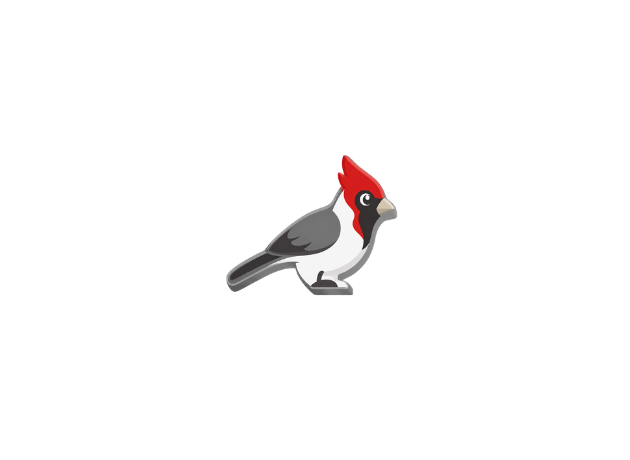
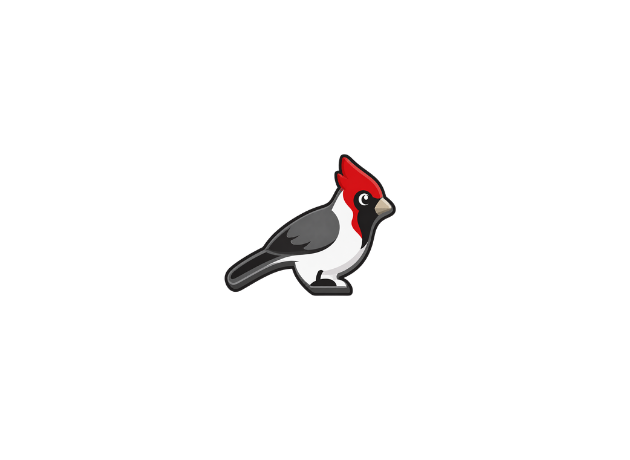
fix(galo): hide legacy HUD overlap, update meeple
- Add is-galo-active wrapper class so the image-based HUD overlay no longer
  stacks on top of the generic dark species panel
- Extend the custom-HUD CSS rules (species-hud, table-hand, hand cards, etc.)
  to cover galo_de_campina alongside macaw/capuchin/coati
- Update galo-de-campina meeple art

Changed region(s): [[0.3317, 0.3348, 0.6333, 0.6696]]

diff --git a/apps/web/src/styles/hud.css b/apps/web/src/styles/hud.css
@@ -5935,12 +5935,14 @@
 .is-macaw-active .hud-dock,
 .is-capuchin-active .hud-dock,
 .is-coati-active .hud-dock,
+.is-galo-active .hud-dock,
 .is-jaguar-active .species-hud,
 .is-wolf-active .species-hud,
 .is-armadillo-active .species-hud,
 .is-macaw-active .species-hud,
 .is-capuchin-active .species-hud,
 .is-coati-active .species-hud,
+.is-galo-active .species-hud,
 .is-jaguar-active .table-hand,
 .is-jaguar-active .scenario-dock-toggle,
 .is-wolf-active .scenario-dock-toggle,
@@ -5948,18 +5950,21 @@
 .is-macaw-active .scenario-dock-toggle,
 .is-capuchin-active .scenario-dock-toggle,
 .is-coati-active .scenario-dock-toggle,
+.is-galo-active .scenario-dock-toggle,
 .is-jaguar-active .turn-recap,
 .is-wolf-active .turn-recap,
 .is-armadillo-active .turn-recap,
 .is-macaw-active .turn-recap,
 .is-capuchin-active .turn-recap,
 .is-coati-active .turn-recap,
+.is-galo-active .turn-recap,
 .is-jaguar-active .forest-recenter,
 .is-wolf-active .forest-recenter,
 .is-armadillo-active .forest-recenter,
 .is-macaw-active .forest-recenter,
 .is-capuchin-active .forest-recenter,
-.is-coati-active .forest-recenter {
+.is-coati-active .forest-recenter,
+.is-galo-active .forest-recenter {
   display: none !important;
 }
 
@@ -6550,7 +6555,8 @@
 .is-armadillo-active .table-hand,
 .is-macaw-active .table-hand,
 .is-capuchin-active .table-hand,
-.is-coati-active .table-hand {
+.is-coati-active .table-hand,
+.is-galo-active .table-hand {
   position: fixed !important;
   z-index: 9999 !important;
   bottom: 1% !important; 
@@ -6570,21 +6576,24 @@
 .is-armadillo-active .hand-card,
 .is-macaw-active .hand-card,
 .is-capuchin-active .hand-card,
-.is-coati-active .hand-card {
+.is-coati-active .hand-card,
+.is-galo-active .hand-card {
   transform: rotate(calc(var(--offset) * 0.8deg)) translateY(calc(var(--dist) * 1px)) !important;
 }
 .is-wolf-active .hand-card:hover,
 .is-armadillo-active .hand-card:hover,
 .is-macaw-active .hand-card:hover,
 .is-capuchin-active .hand-card:hover,
-.is-coati-active .hand-card:hover {
+.is-coati-active .hand-card:hover,
+.is-galo-active .hand-card:hover {
   transform: rotate(0deg) translateY(-16px) scale(1.07) !important;
 }
 .is-wolf-active .hand-card.selected,
 .is-armadillo-active .hand-card.selected,
 .is-macaw-active .hand-card.selected,
 .is-capuchin-active .hand-card.selected,
-.is-coati-active .hand-card.selected {
+.is-coati-active .hand-card.selected,
+.is-galo-active .hand-card.selected {
   transform: rotate(0deg) translateY(-22px) scale(1.09) !important;
 }
 
@@ -6592,7 +6601,8 @@
 .is-armadillo-active .table-hand .hand-header,
 .is-macaw-active .table-hand .hand-header,
 .is-capuchin-active .table-hand .hand-header,
-.is-coati-active .table-hand .hand-header {
+.is-coati-active .table-hand .hand-header,
+.is-galo-active .table-hand .hand-header {
   display: none !important;
 }
 
@@ -6600,7 +6610,8 @@
 .is-armadillo-active .table-hand .hand-sort-toggle,
 .is-macaw-active .table-hand .hand-sort-toggle,
 .is-capuchin-active .table-hand .hand-sort-toggle,
-.is-coati-active .table-hand .hand-sort-toggle {
+.is-coati-active .table-hand .hand-sort-toggle,
+.is-galo-active .table-hand .hand-sort-toggle {
   top: 145px;
   right: auto;
   left: -113px;
@@ -6610,7 +6621,8 @@
 .is-armadillo-active .table-hand .hand-rail,
 .is-macaw-active .table-hand .hand-rail,
 .is-capuchin-active .table-hand .hand-rail,
-.is-coati-active .table-hand .hand-rail {
+.is-coati-active .table-hand .hand-rail,
+.is-galo-active .table-hand .hand-rail {
   padding: 0 !important;
   pointer-events: auto !important;
 }

diff --git a/apps/web/src/screens/OikosApp.tsx b/apps/web/src/screens/OikosApp.tsx
@@ -4241,7 +4241,9 @@ export function OikosApp({ authSession, authUser, onSignOut }: OikosAppProps) {
         !isBasicTutorial && currentGamePlayer?.speciesId === "macaw" ? "is-macaw-active" : ""
       } ${!isBasicTutorial && currentGamePlayer?.speciesId === "capuchin" ? "is-capuchin-active" : ""} ${
         !isBasicTutorial && currentGamePlayer?.speciesId === "coati" ? "is-coati-active" : ""
-      } ${visualAccessibility ? "accessibility-visual-mode" : ""}`}
+      } ${!isBasicTutorial && currentGamePlayer?.speciesId === "galo_de_campina" ? "is-galo-active" : ""} ${
+        visualAccessibility ? "accessibility-visual-mode" : ""
+      }`}
       data-visual-accessibility={visualAccessibility ? "true" : "false"}
       data-sheet={isMobile && hasStartedGame && !cleanBoardMode ? mobileSheet ?? "none" : undefined}
     >